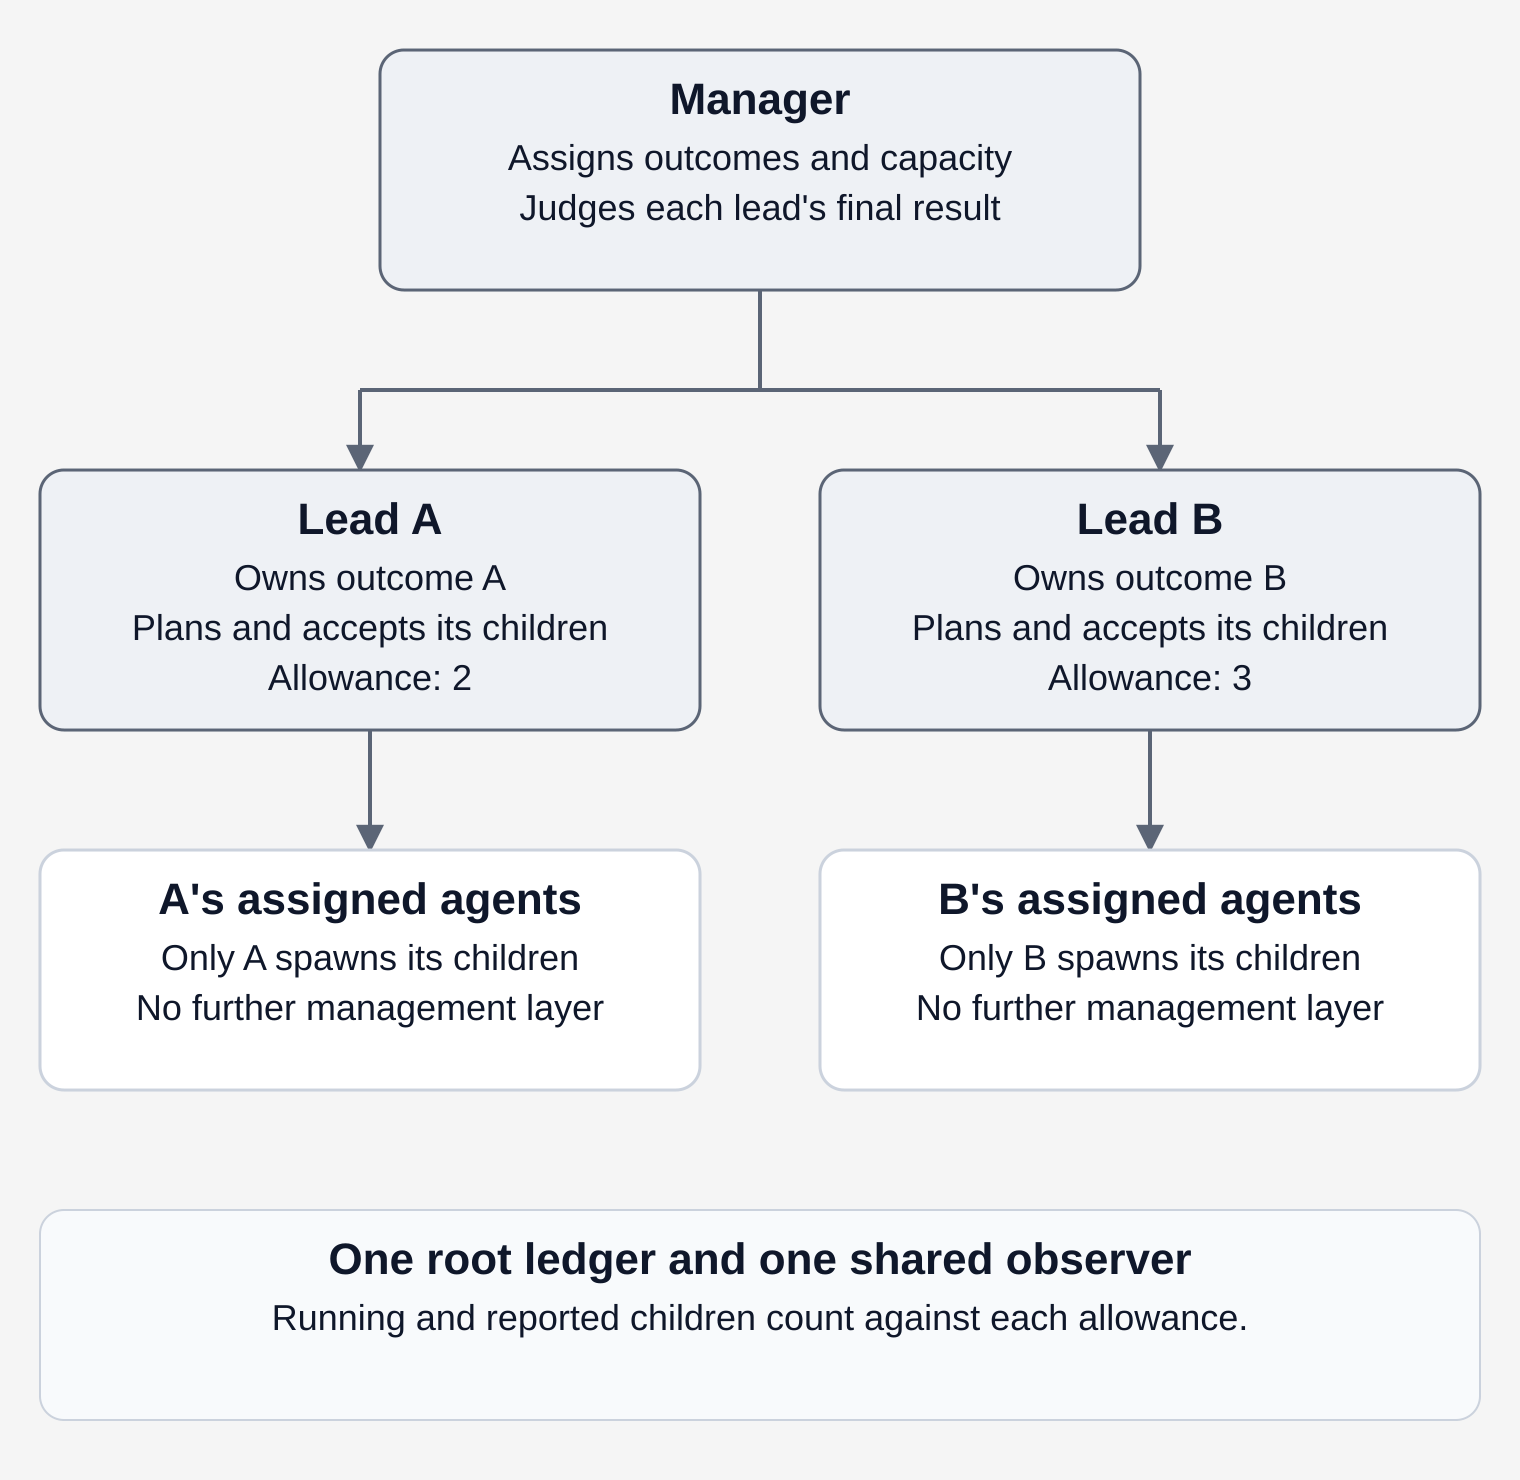
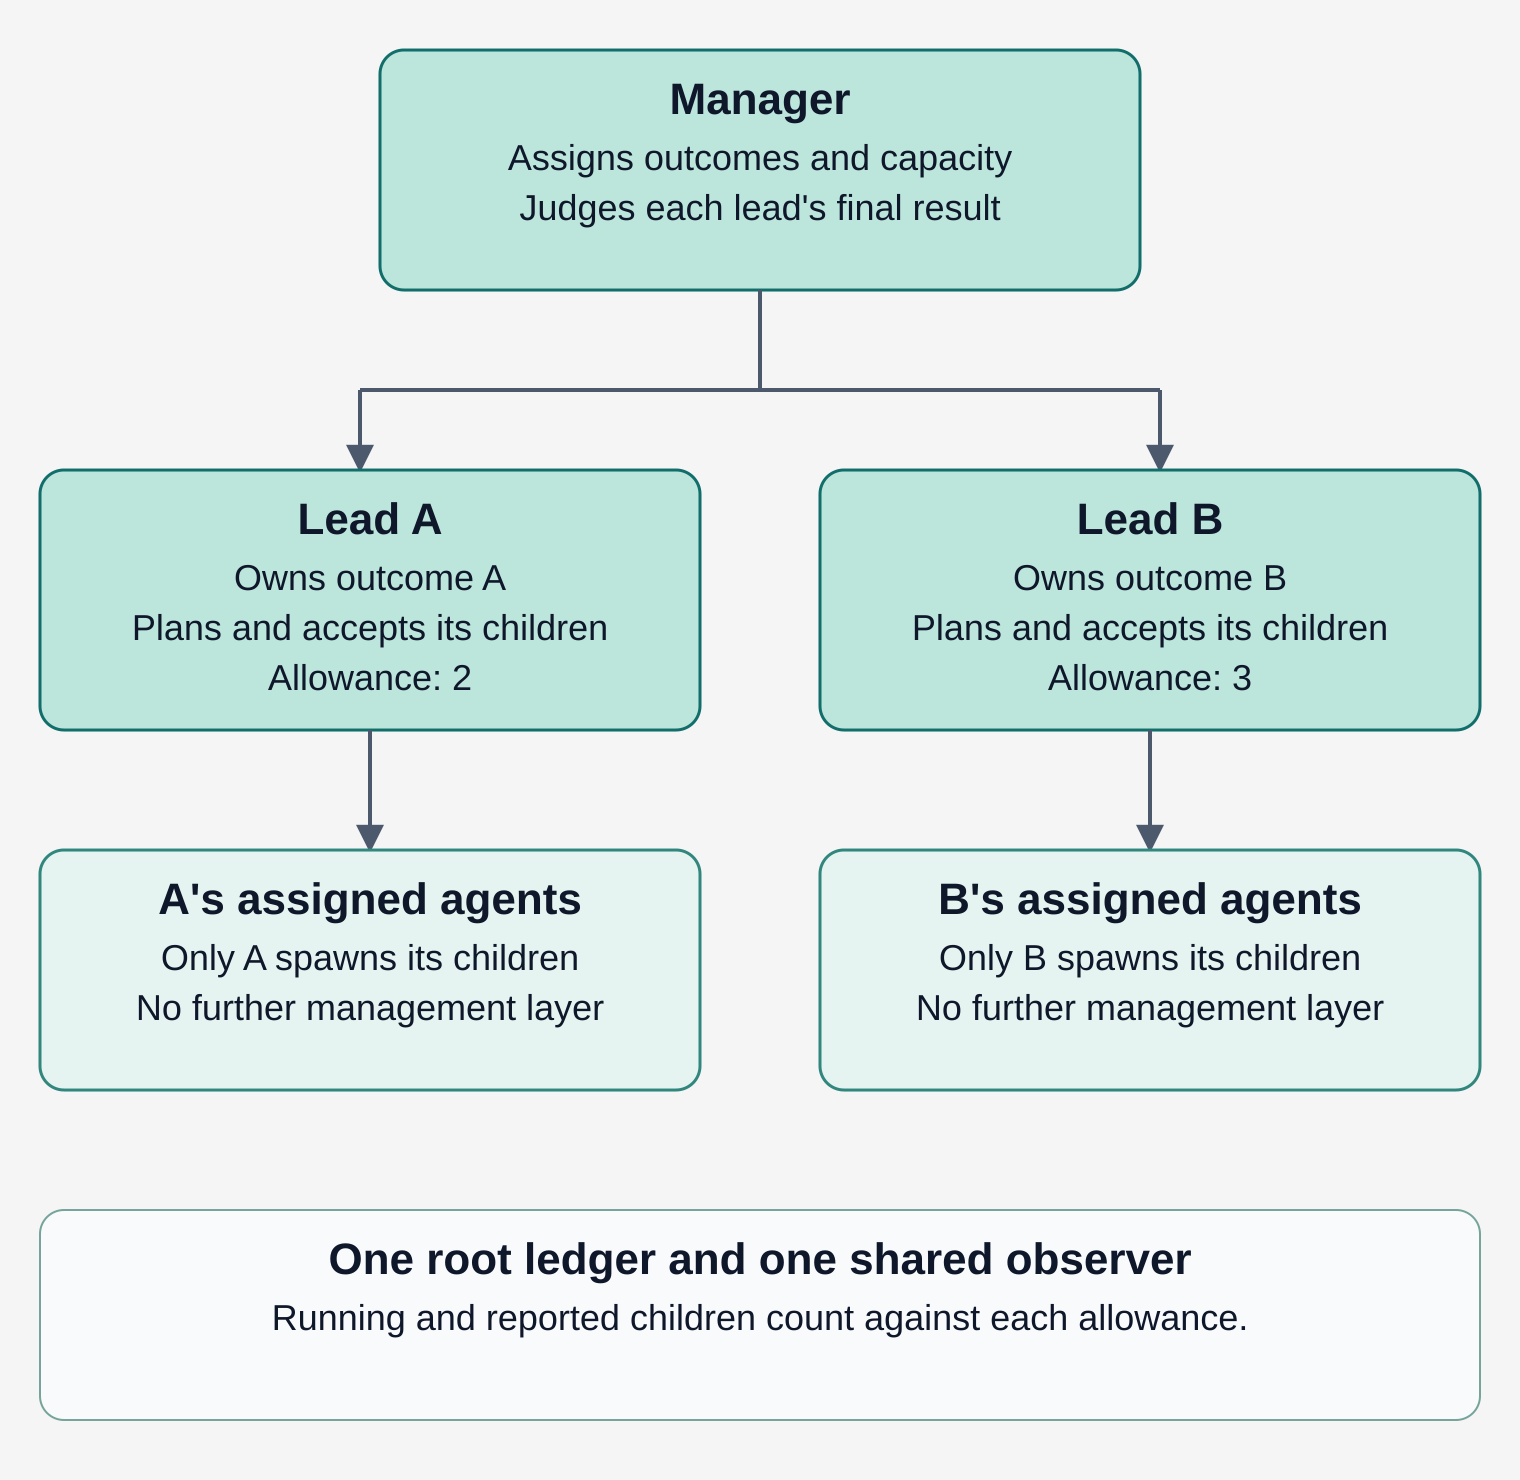
style: add teal fills to lead-team diagrams

diff --git a/styles/diagrams.css b/styles/diagrams.css
@@ -252,14 +252,16 @@ is supplied separately by figures.css. */
 		fill: var(--color-accent);
 	}
 
-	/* State colours follow the observer; roles and machinery stay neutral. */
+	/* Teal distinguishes roles and machinery; states follow the observer. */
 	.prose .diagram-lead-team {
-		--color-team-surface: light-dark(#ffffff, #12151c);
+		--color-team-surface: light-dark(#e5f4f0, #173532);
 		--color-team-panel: light-dark(#f8fafc, #181c25);
-		--color-team-emphasis: light-dark(#eef1f5, #212633);
-		--color-team-border: light-dark(#cbd2dd, #364052);
+		--color-team-emphasis: light-dark(#bce5dc, #19504a);
+		--color-team-border: light-dark(#76a49a, #55998d);
+		--color-team-edge: light-dark(#31877e, #72d9cd);
+		--color-team-accent: light-dark(#126e6b, #6ce1d5);
 		--color-team-text: light-dark(#0f172a, #e6e9f0);
-		--color-team-muted: light-dark(#5b6576, #9aa3b5);
+		--color-team-muted: light-dark(#4c596c, #b6c3d6);
 		--color-team-queued: light-dark(#64748b, #94a3b8);
 		--color-team-queued-bg: light-dark(#f1f5f9, #1e2430);
 		--color-team-running: light-dark(#2563eb, #60a5fa);
@@ -299,13 +301,13 @@ is supplied separately by figures.css. */
 
 	.prose .diagram-lead-team .frame {
 		fill: var(--color-team-surface);
-		stroke: var(--color-team-border);
+		stroke: var(--color-team-edge);
 		stroke-width: 1.5;
 	}
 
 	.prose .diagram-lead-team .structural-frame {
 		fill: var(--color-team-emphasis);
-		stroke: var(--color-team-muted);
+		stroke: var(--color-team-accent);
 		stroke-width: 1.5;
 	}
 
